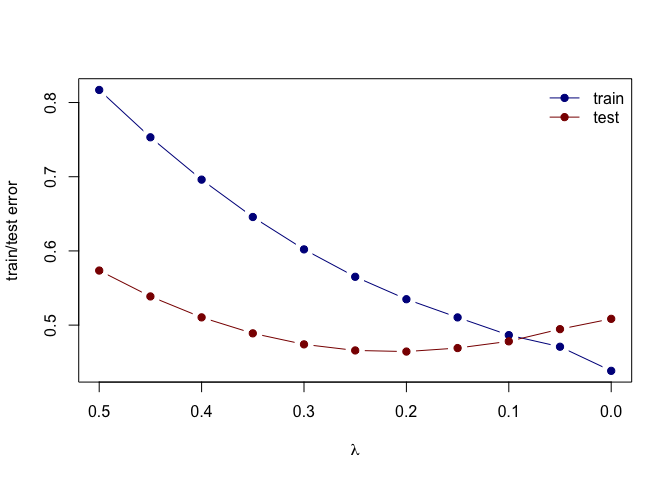
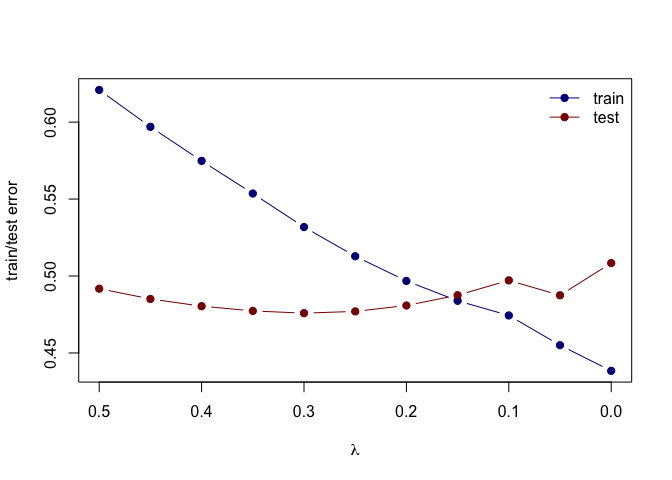
Added corrected .md file

diff --git a/Homework-3/Homework3.md b/Homework-3/Homework3.md
@@ -192,7 +192,7 @@ Trains ridge regression model using glmnet
 form  <- lcavol ~  lweight + age + lbph + lcp + pgg45 + lpsa + svi + gleason
 x_inp <- model.matrix(form, data=prostate_train)
 y_out <- prostate_train$lcavol
-fit <- glmnet(x=x_inp, y=y_out, lambda=seq(0.5, 0, -0.05))
+fit <- glmnet(x=x_inp, y=y_out, lambda=seq(0.5, 0, -0.05),alpha=.5)
 print(fit$beta)
 ```
 
@@ -200,26 +200,26 @@ print(fit$beta)
 
     ##    [[ suppressing 11 column names 's0', 's1', 's2' ... ]]
 
-    ##                                                                        
-    ## (Intercept) .         .         .         .         .         .        
-    ## lweight     .         .         .         .         .         .        
-    ## age         .         .         .         .         .         .        
-    ## lbph        .         .         .         .         .         .        
-    ## lcp         0.1473018 0.1714414 0.1955919 0.2197423 0.2438928 0.2680433
-    ## pgg45       .         .         .         .         .         .        
-    ## lpsa        0.2535992 0.2816134 0.3096214 0.3376294 0.3656374 0.3936454
-    ## svi         .         .         .         .         .         .        
-    ## gleason     .         .         .         .         .         .        
+    ##                                                                                
+    ## (Intercept) .         .          .         .            .           .          
+    ## lweight     .         .          .         .            .           .          
+    ## age         .         .          .         0.0003894864 0.002320975 0.004313701
+    ## lbph        .         .          .         .            .           .          
+    ## lcp         0.2294623 0.24154340 0.2540724 0.2661649989 0.277441570 0.289274669
+    ## pgg45       .         .          .         .            .           .          
+    ## lpsa        0.3305721 0.34691310 0.3638096 0.3805189608 0.395973906 0.412018284
+    ## svi         0.0926727 0.09997708 0.1059081 0.1105946514 0.114304207 0.116251808
+    ## gleason     .         .          .         0.0039626023 0.010940153 0.017462117
     ##                                                                         
-    ## (Intercept) .         .            .            .            .          
-    ## lweight     .         .            .            .           -0.113959029
-    ## age         .         0.0006179005 0.005823836  0.010987417  0.020114429
-    ## lbph        .         .            .           -0.004060083 -0.056959719
-    ## lcp         0.2921937 0.3160341041 0.337951116  0.352226351  0.418442122
-    ## pgg45       .         .            .            .           -0.009110807
-    ## lpsa        0.4216534 0.4489636282 0.470877681  0.491246304  0.575583816
-    ## svi         .         .            .            0.026126960  0.035184640
-    ## gleason     .         .            .            0.011159844  0.224210312
+    ## (Intercept) .           .           .           .            .          
+    ## lweight     .           .           .           .           -0.112933921
+    ## age         0.006371217 0.008497991 0.01069908  0.014404395  0.020098113
+    ## lbph        .           .           .          -0.028483927 -0.056964741
+    ## lcp         0.301759296 0.315005922 0.32915376  0.357468308  0.418530969
+    ## pgg45       .           .           .          -0.002397585 -0.009123115
+    ## lpsa        0.428723351 0.446159446 0.46440996  0.502969322  0.575230287
+    ## svi         0.116073131 0.113352809 0.10757296  0.075176567  0.035283017
+    ## gleason     0.023430228 0.028730890 0.03322404  0.087684091  0.224747486
 
 ## Question 5
 
